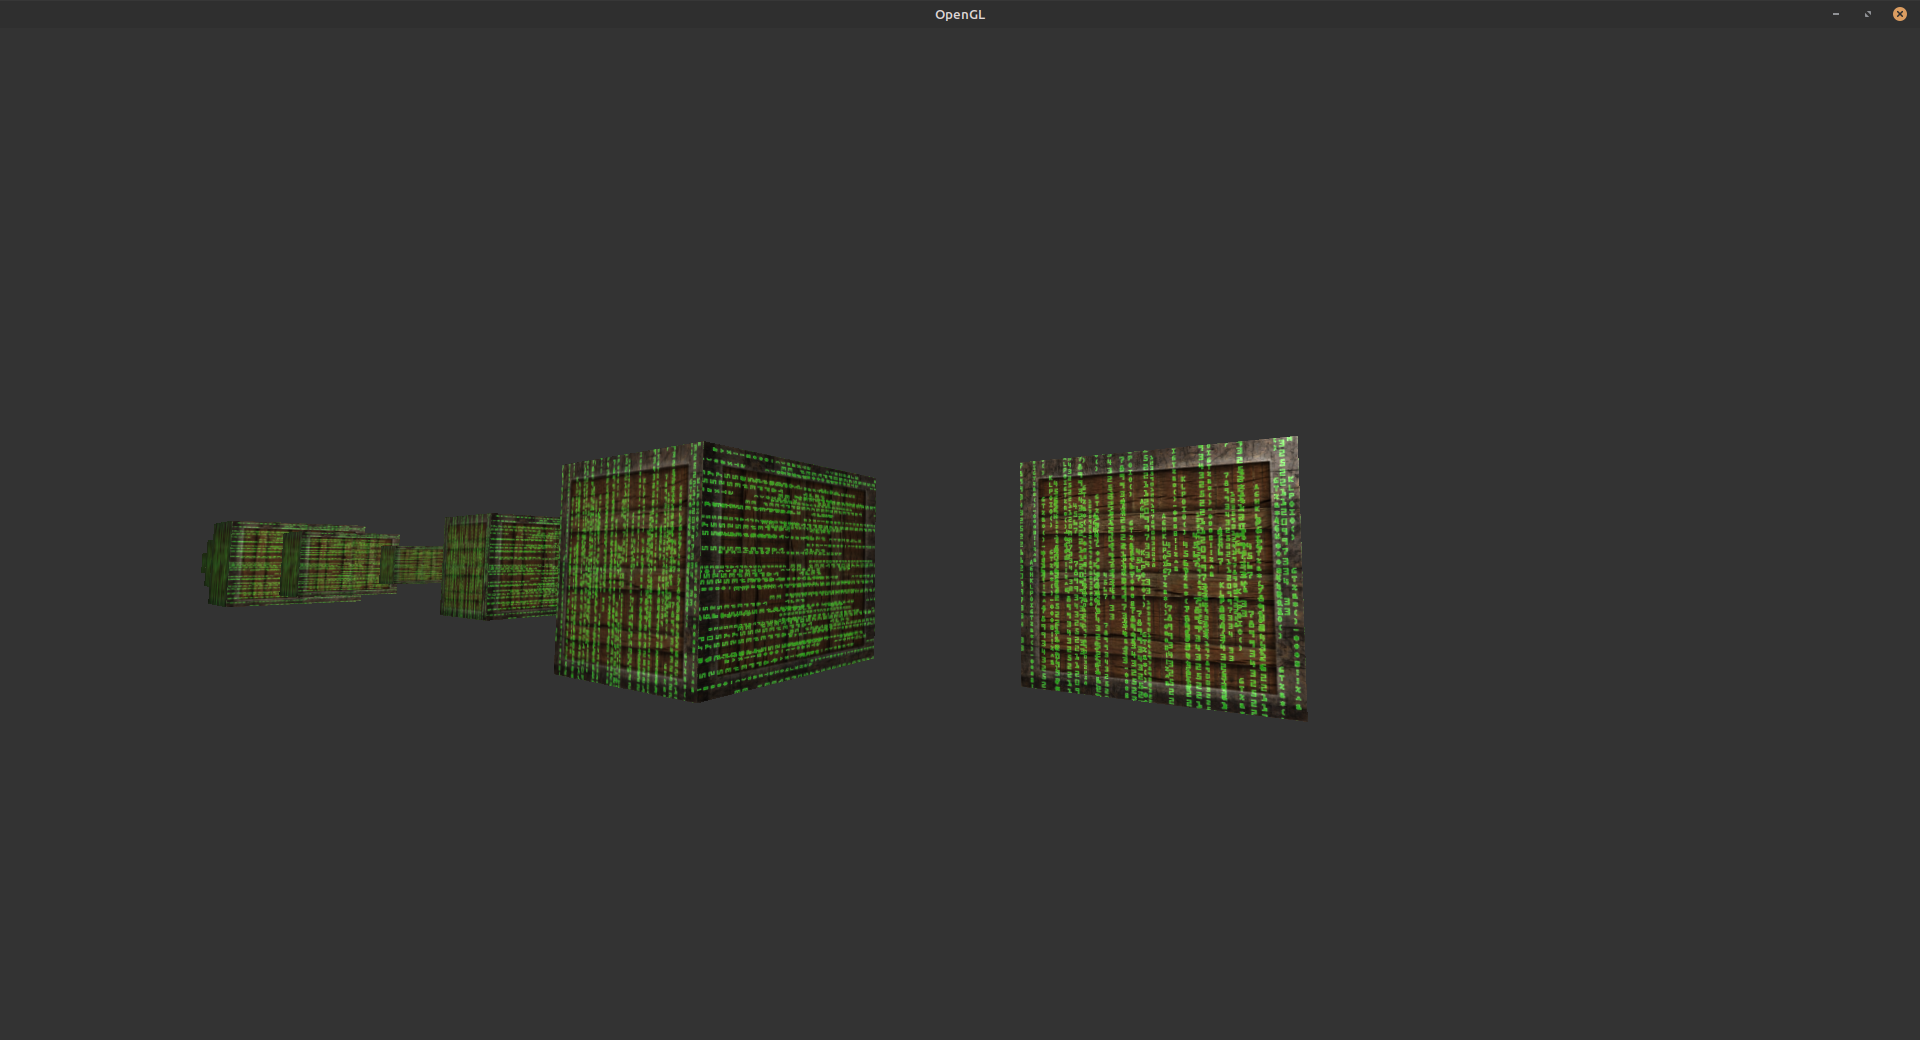
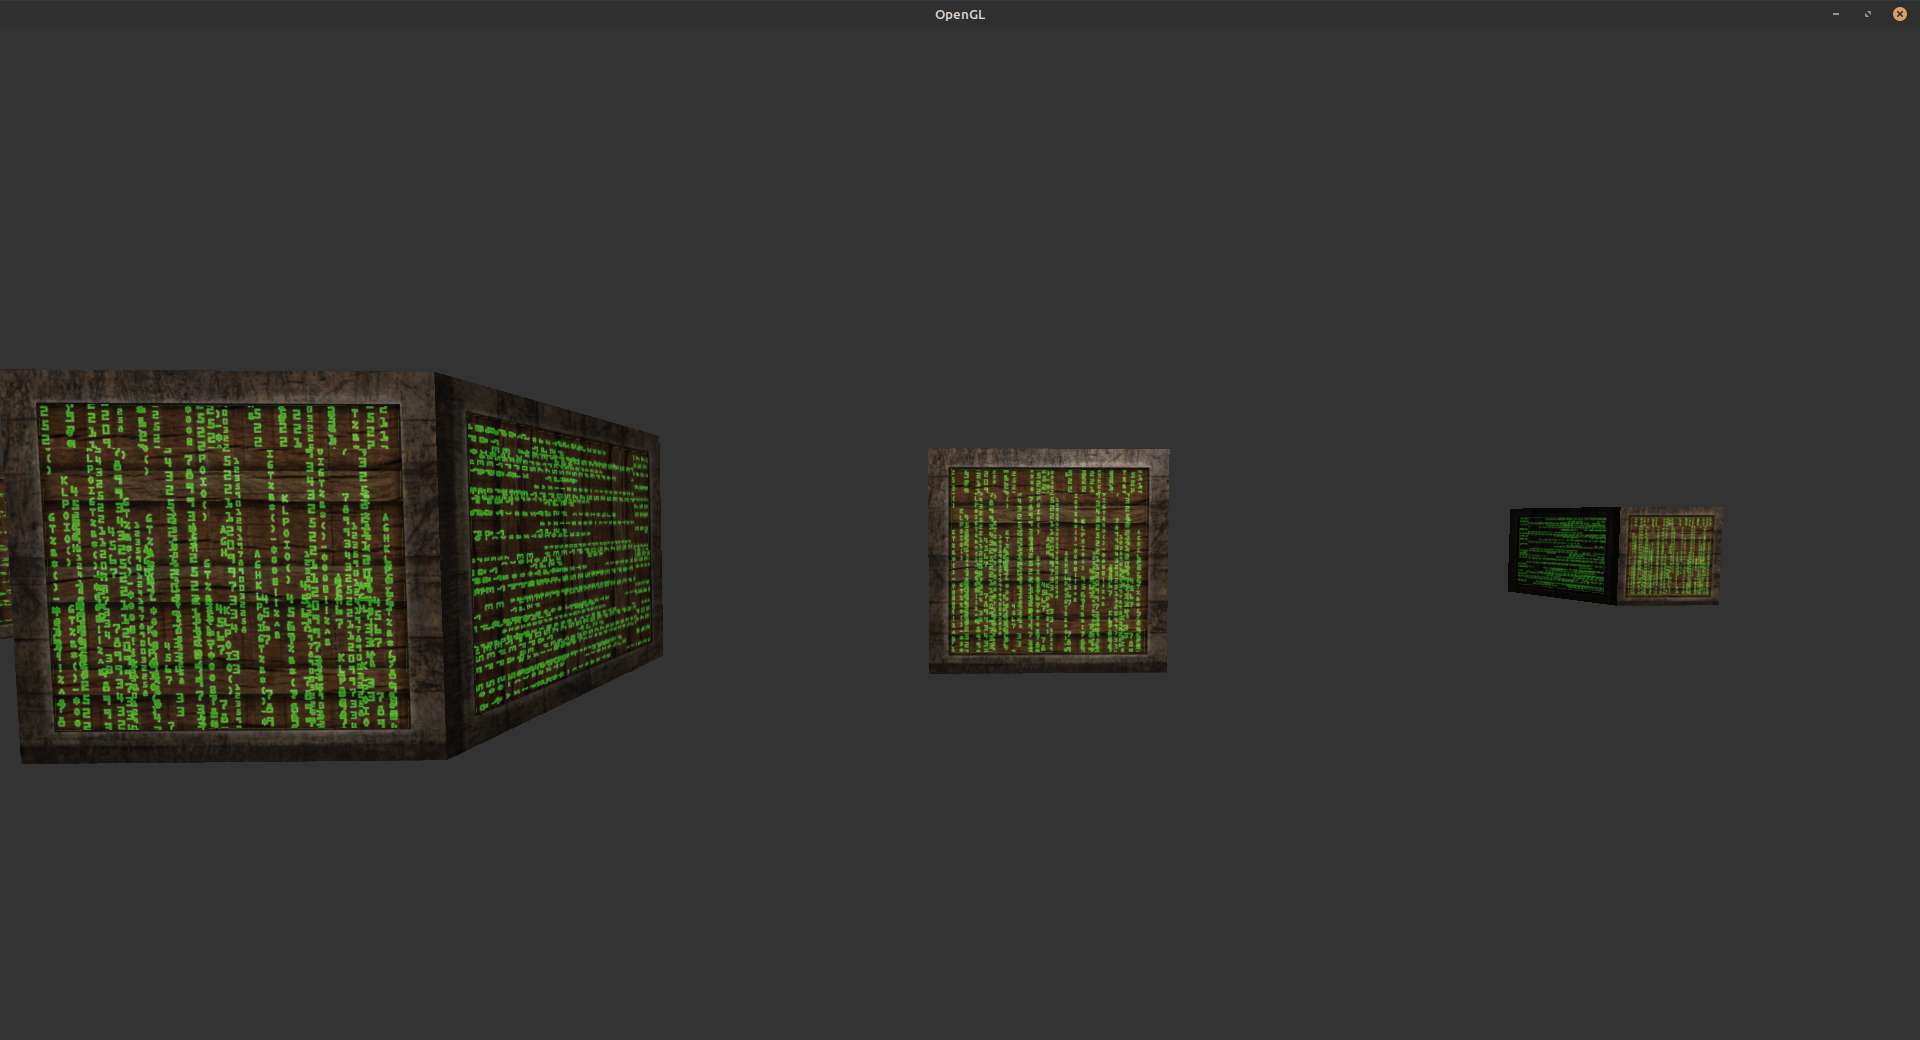
tidy up example

Changed region(s): [[0.0, 0.3385, 0.6875, 0.7385], [0.7812, 0.4615, 0.9062, 0.5846]]

diff --git a/example/main.cpp b/example/main.cpp
@@ -37,6 +37,7 @@ int main() {
 	object_shader.push_normal("normal_mat");
 	object_shader.push_material("material");
 	object_shader.push_light("light_source");
+	object_shader.push_uniform("time");
 
 	Shader_program lightbulb_shader = game.get_shader("lightbulb");
 	lightbulb_shader.set_depth_testing(true);
@@ -96,18 +97,20 @@ int main() {
 	auto draw_body = [&]{
 		Point3D lightbulb_pos = lightbulb.get_pos();
 		glm::mat4 view_mat = game.m_player.m_head.get_look_at();
+		glm::mat4 projection_mat = game.m_player.m_head.get_projection_matrix(game.m_win.get_width(), game.m_win.get_height());
 
 		// First populate uniforms
 		object_shader["view"] = view_mat;
-		object_shader["projection"] = game.m_player.m_head.get_projection_matrix(game.m_win.get_width(), game.m_win.get_height());
+		object_shader["projection"] = projection_mat;
 		object_shader[light_name + ".pos"] = std::vector<float>{ lightbulb_pos.x, lightbulb_pos.y, lightbulb_pos.z };
 		object_shader[light_name + ".color"] = light_source.color;
 		object_shader[light_name + ".ambient_intens"]  = light_source.ambient_intens;
 		object_shader[light_name + ".diffuse_intens"]  = light_source.diffuse_intens;
 		object_shader[light_name + ".specular_intens"] = light_source.specular_intens;
+		object_shader["time"] = (float)glfwGetTime() * 0.7f;
 
 		lightbulb_shader["view"] = view_mat;
-		lightbulb_shader["projection"] = game.m_player.m_head.get_projection_matrix(game.m_win.get_width(), game.m_win.get_height());
+		lightbulb_shader["projection"] = projection_mat;
 		lightbulb_shader[light_name + ".color"] = light_source.color;
 
 		// Second draw
@@ -128,3 +131,4 @@ int main() {
 
 	game.m_win.draw(draw_body, custom_input);
 }
+
